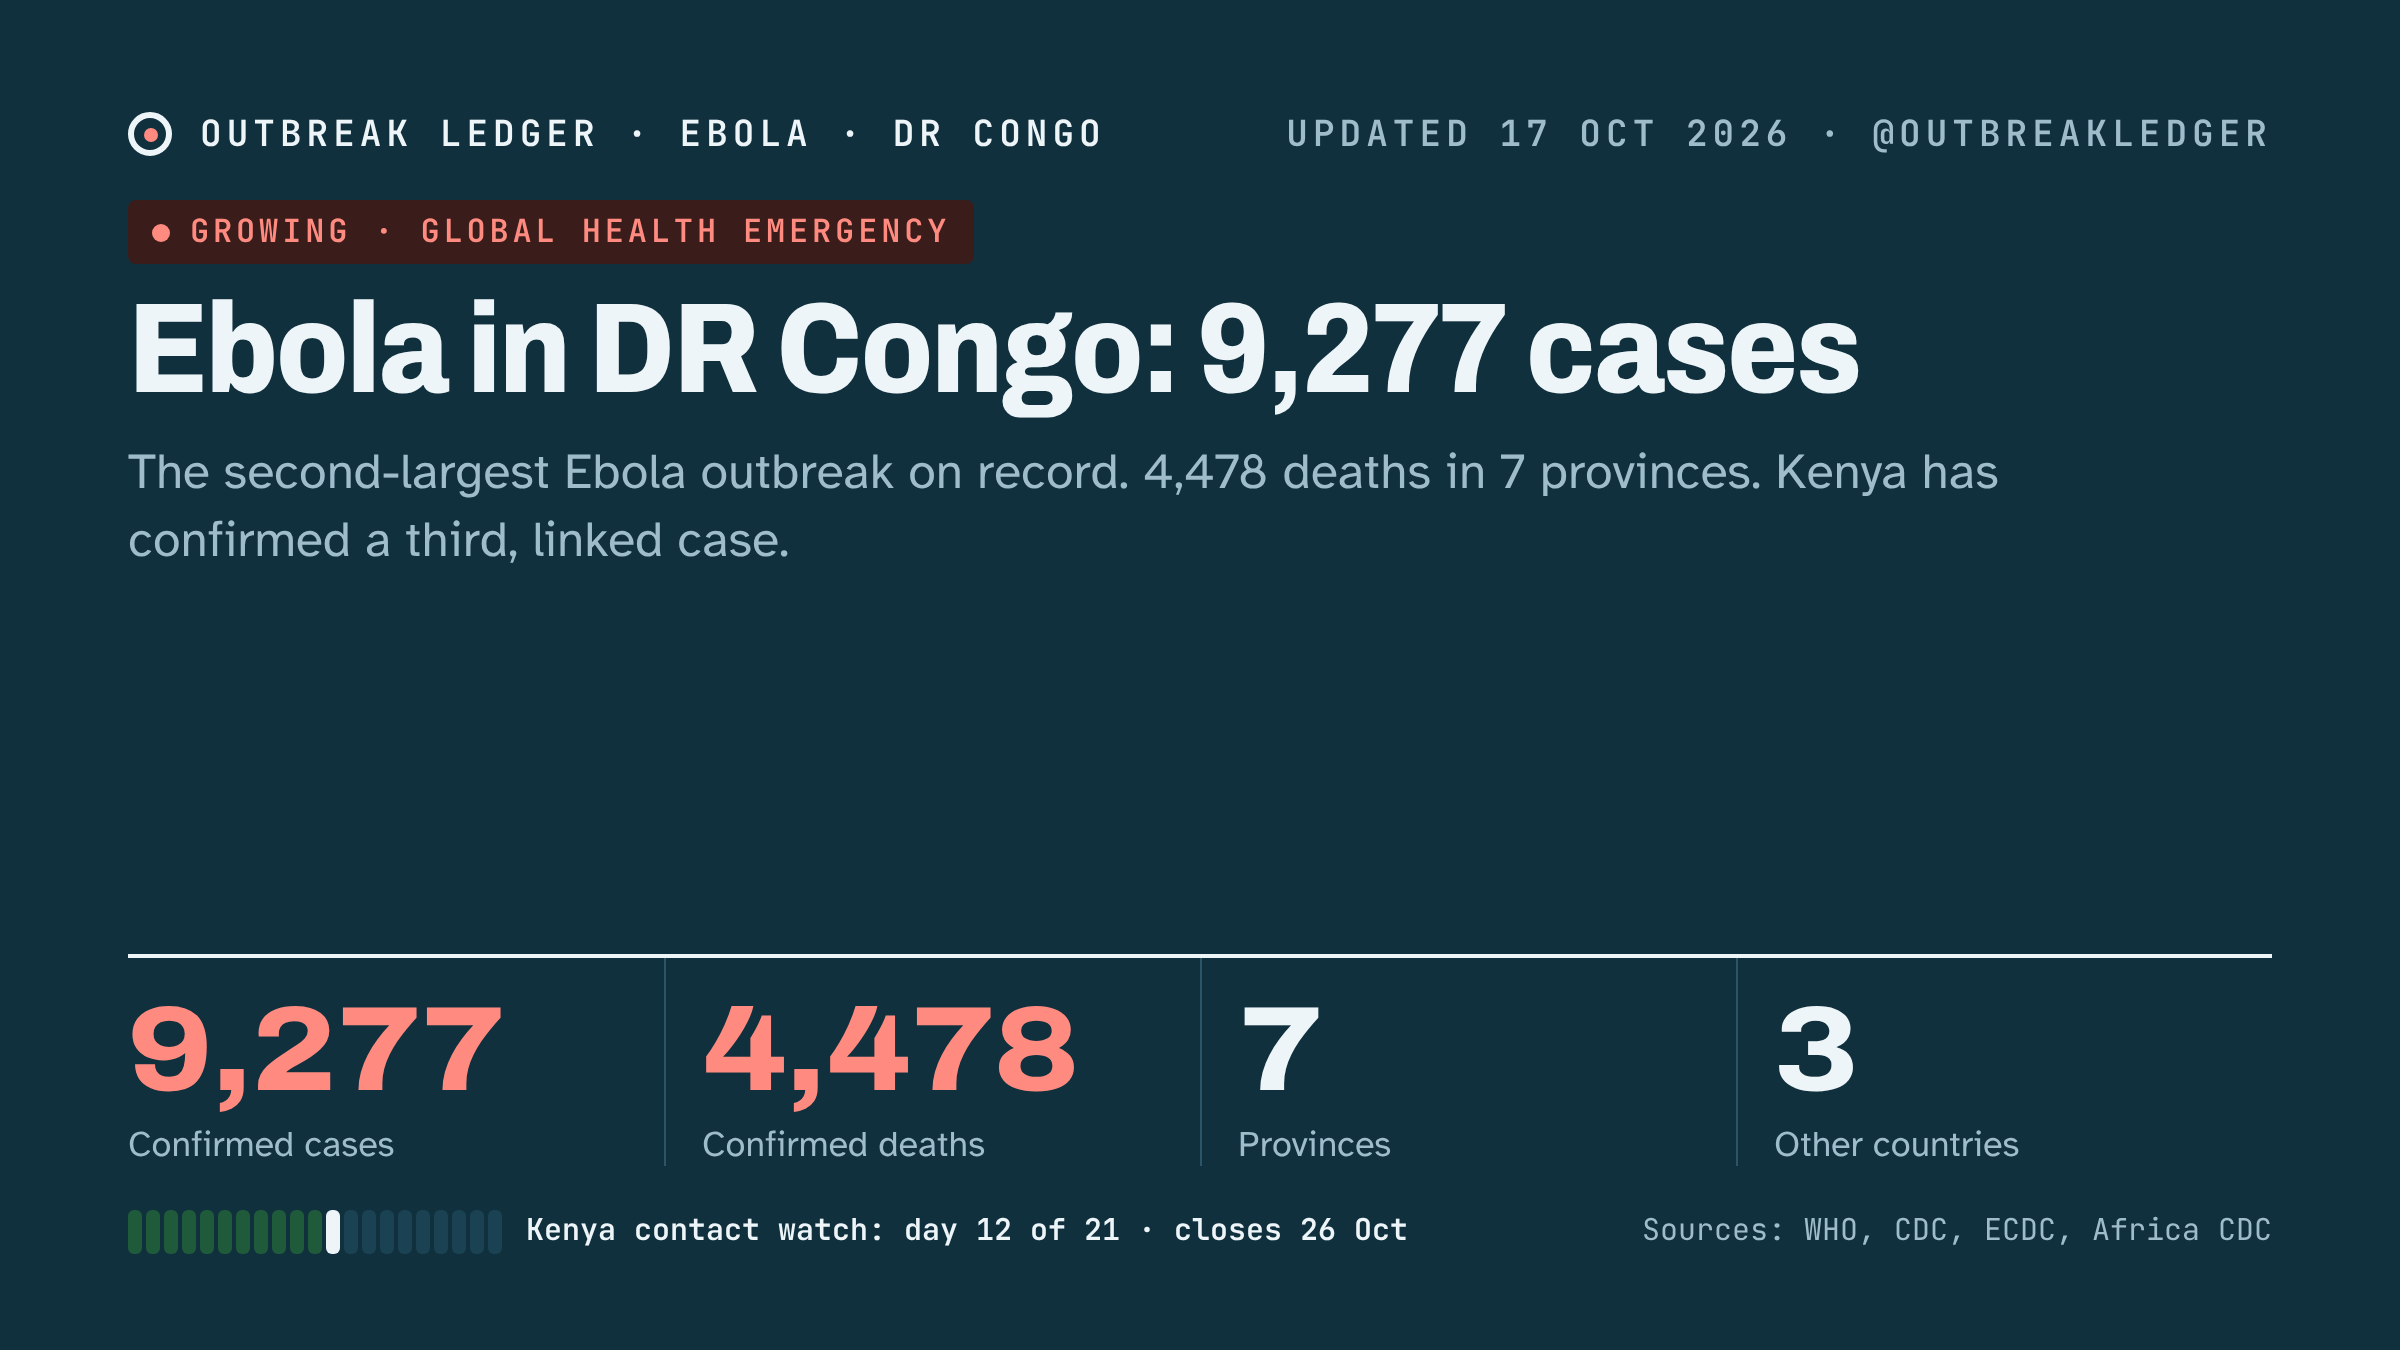
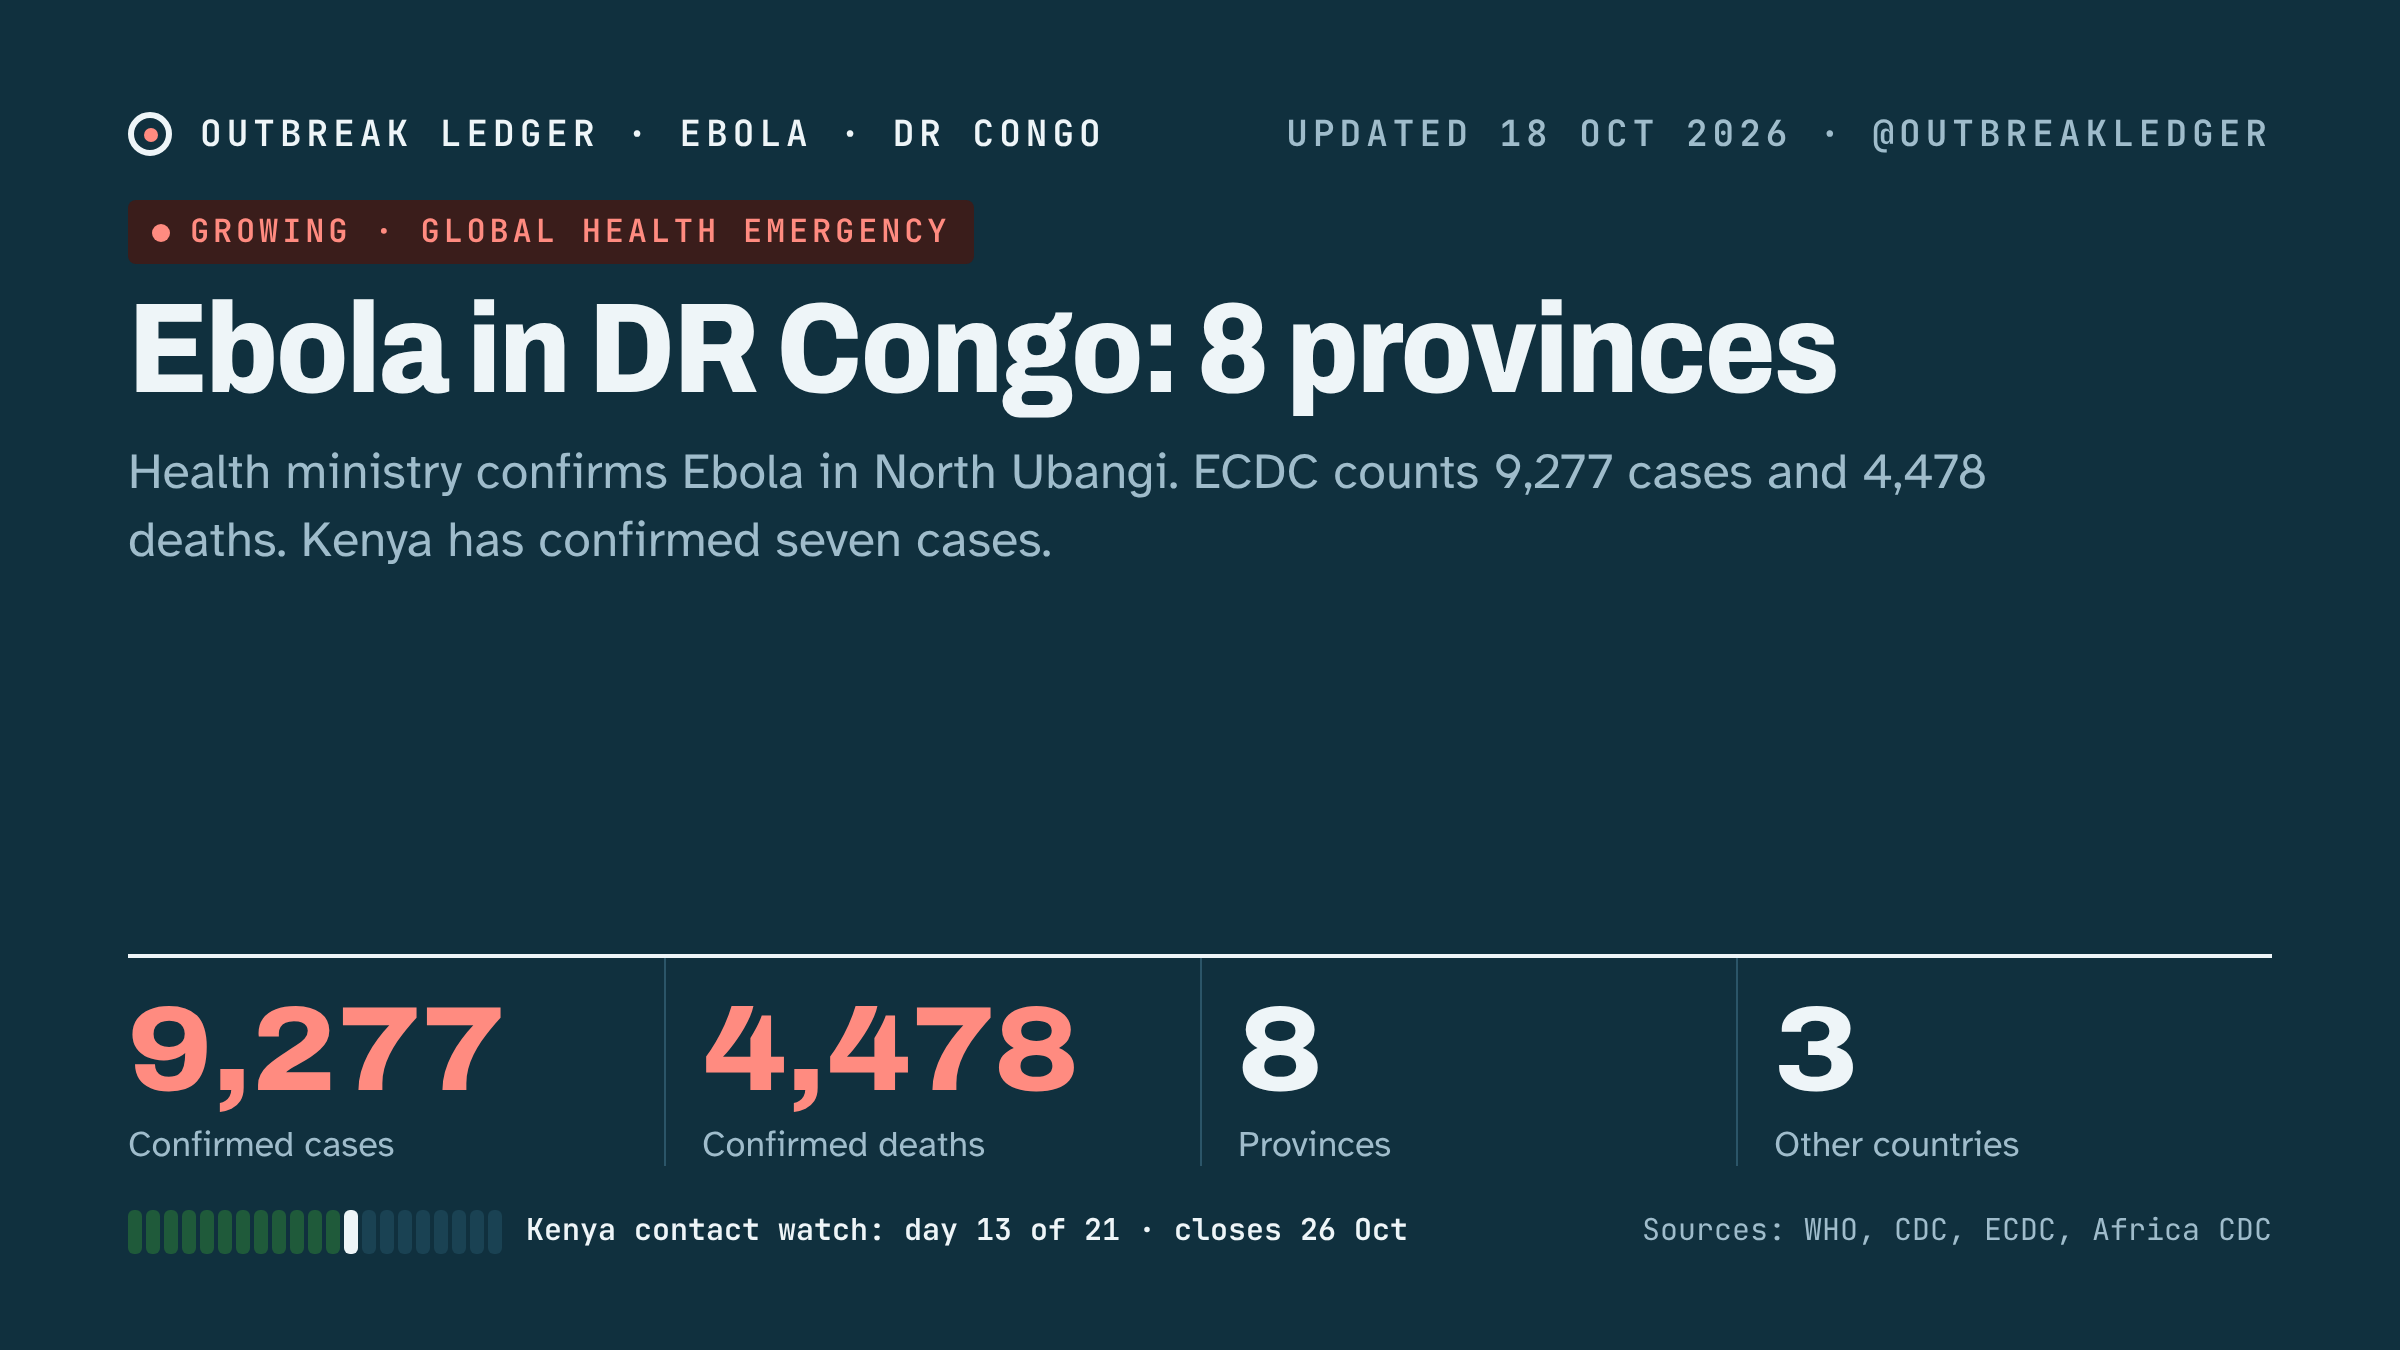
Trackers: Ebola North Ubangi confirmed (8th province), Kenya 7 cases; others checked, no change
Claude-Session: https://claude.ai/code/session_01DjK934MGj4uKY77RiACNyU

diff --git a/site/ebola/share/latest-post.md b/site/ebola/share/latest-post.md
@@ -1,6 +1,5 @@
-Ebola in DR Congo: ECDC counts 9,277 confirmed cases and 4,478 deaths (data to 14 Oct). Kenya's health ministry has confirmed a third case, a close contact of the first two; it reports no evidence of community spread.
+Ebola in DR Congo: the health ministry has confirmed cases in an eighth province, North Ubangi (two cases, one fatal, per AP). ECDC counts 9,277 cases and 4,478 deaths (to 14 Oct). Kenya has confirmed 7 cases, with no community transmission reported.
 
-Live tracker:
 https://nhlebe1.github.io/ai-scheduler-platform/ebola/
 
-Sources: ECDC (15 Oct), Kenya Ministry of Health via WHO Africa (16 Oct), The Washington Post (16 Oct).
+Sources: AP (18 Oct), ECDC (15 Oct), Kenya Ministry of Health via Al Jazeera (17 Oct).
